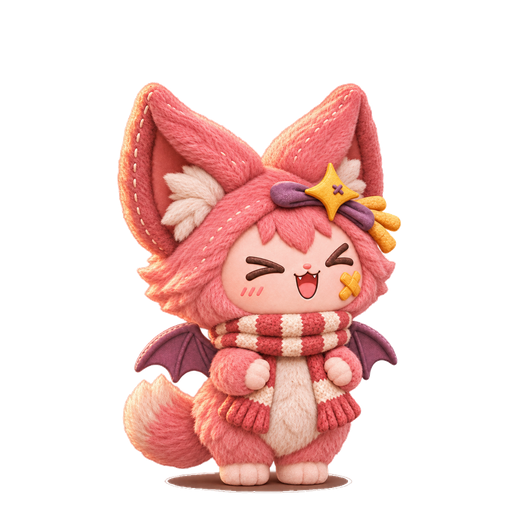
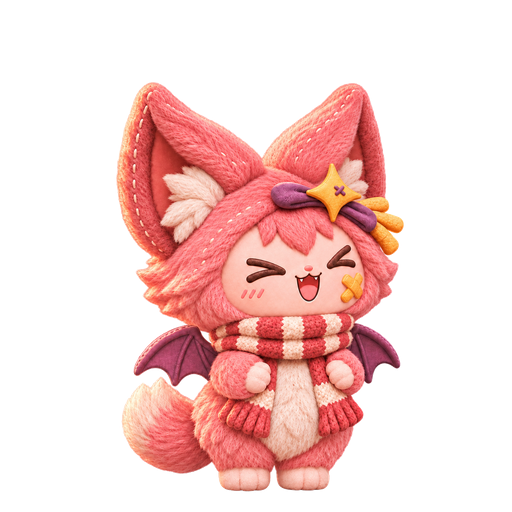
Mischi wing costume without ground shadow; importer --add mode; brief 10 review
Three redrawn wing poses (v2) replace the shadowed ones. The importer can now
add a few files without rebuilding everything, and refuses a partial folder
in full mode instead of clearing the game art.

Claude-Session: https://claude.ai/code/session_01HwhHRBigfxaa8eEGVZBLc8

Changed region(s): [[0.2188, 0.1562, 0.7812, 0.9688]]

diff --git a/tools/import_art.py b/tools/import_art.py
@@ -1,6 +1,10 @@
 """Import ChatGPT source art into the game.
 
-Usage:  python3 tools/import_art.py <folder-with-source-pngs> [--report report.md]
+Usage:  python3 tools/import_art.py <folder-with-source-pngs> [--report report.md] [--add]
+
+Without --add the folder must hold the WHOLE source set: the game folder is cleared and rebuilt
+from it, so a partial folder is refused. With --add only the files in the folder are imported and
+every other game image is left alone (use this for a few new or redrawn files).
 
 Source images are generated, so their pixel sizes, margins and framing vary. This script:
   1. Inventories the folder against the art brief (missing, unknown and superseded files).
@@ -81,7 +85,8 @@ REFERENCES = ["ui_arcade_hub", "ui_game_intro", "ui_game_frame", "ui_game_result
 COSTUMES = {"mopey": ["umbrella"], "mischi": ["wings"], "hush": ["wings"]}
 COSTUME_POSES = ["idle", "walk", "walk2", "sit", "sleep"]
 # Files delivered with a baked-in ground shadow; the importer strips it (flagged for redraw).
-SHADOW_FIX = {"char_mischi_costume_wings_idle", "char_mischi_costume_wings_walk", "char_mischi_costume_wings_sleep"}
+# Brief 08 delivered three Mischi wing poses with a ground shadow; their _v2 redraws (brief 10) are clean.
+SHADOW_FIX: set[str] = set()
 # Room backgrounds: normalized size (game copy is 80%). Proportions match the room grids.
 ROOMS = {"living": (2400, 1040), "sunroom": (2400, 1092), "yard": (2400, 886)}
 # Square scene cards for Explore (gathering spots and expedition routes).
@@ -242,6 +247,7 @@ def main() -> int:
         print(f"No PNG files found in {src}. Nothing changed.")
         return 2
     report_path = Path(args[args.index("--report") + 1]) if "--report" in args else None
+    add_mode = "--add" in args
 
     exclude_file = ROOT / "art" / "import-exclude.txt"
     excluded: dict[str, str] = {}
@@ -272,10 +278,20 @@ def main() -> int:
     missing = [k for k in EXPECTED if k not in best]
 
     lines = ["| Asset | Used file | Source size | Output |", "|---|---|---|---|"]
+    if not add_mode and len(best) < len(EXPECTED) * 0.8:
+        # Guard: a full import clears the game folder first, so a partial folder would delete most of the art.
+        print(f"Only {len(best)} of {len(EXPECTED)} expected assets are in {src}. Nothing changed.")
+        print("To import just these files and keep the rest, run again with --add.")
+        return 2
     anchors: dict[str, dict[str, float]] = {}
     GAME.mkdir(parents=True, exist_ok=True)
-    for old in [*GAME.glob("*.png"), *GAME.glob("*.webp")]:
-        old.unlink()
+    if add_mode:
+        anchors_file = GAME / "anchors.json"
+        if anchors_file.exists():
+            anchors = json.loads(anchors_file.read_text())
+    else:
+        for old in [*GAME.glob("*.png"), *GAME.glob("*.webp")]:
+            old.unlink()
 
     def record(key: str, source: Image.Image, out: Image.Image, note: str = "") -> None:
         lines.append(f"| {key} | {best[key][1].name} | {source.width}×{source.height} | {out.width}×{out.height}{' — ' + note if note else ''} |")
@@ -293,10 +309,8 @@ def main() -> int:
     # Characters: one scale per character, taken from the idle pose.
     for c in CHARACTERS:
         idle_key = f"char_{c}_idle"
-        if idle_key not in best:
+        if idle_key not in best and not add_mode:
             continue
-        idle = load(best[idle_key][1])
-        ix0, iy0, ix1, iy1 = bbox(body_mask(idle))
         stand_px = 1024 * STAND_FRACTION
         costume_pairs = [(f"costume_{k}_{p}", p) for k in COSTUMES.get(c, []) for p in COSTUME_POSES]
         for pose, scale_pose in [(p, p) for p in POSES] + costume_pairs:

diff --git a/docs/art-review-brief-10.md b/docs/art-review-brief-10.md
@@ -1,0 +1,31 @@
+# Art review — brief 10 (16 Nov 2026)
+
+## Part 2 — Mischi wing costume redraw: PASS (3 of 3)
+
+`char_mischi_costume_wings_idle_v2`, `_walk_v2`, `_sleep_v2` (1024×1024, white background).
+
+- No ground shadow in any of the three (checked with the white range stretched; the old idle and sleep showed a brown smear under the feet and body).
+- Same pose, scale and framing as the files they replace: after import the outlines match the old ones to within 3 px.
+- Four-point Mischief Star with the purple stitch, scarf, cheek bandage and plum bat wings all unchanged.
+- `walk` still pairs with the existing `walk2` (not redrawn) exactly as before.
+
+Imported with `tools/import_art.py <folder> --add`. The importer's shadow-removal step for these three files is now switched off, since the sources are clean.
+
+## Part 3 — Series 2 "Teatime Friends" concept board: 6 approved, 4 to revise
+
+`series_2_teatime_friends_concept_board.png` (1536×1024). Ten characters, right order, no text, style matches Series 1.
+
+| # | Character | Verdict | Note |
+|---|---|---|---|
+| 1 | Crumb (mouse baker) | Approve | Keeps the baker's cap; the only one with a chef-style hat after the changes below |
+| 2 | Mallow (hamster) | Revise | Orange-and-white colouring is close to a well-known cartoon hamster. Make it marshmallow cream all over with one toasted golden-brown patch |
+| 3 | Pekoe (otter) | Approve | Teapot-lid hat and leaf scarf read clearly |
+| 4 | Jammy (hedgehog) | Approve | |
+| 5 | Whisk (duckling) | Revise | Same tall white chef hat as Crumb. Remove the hat; a small tuft of head feathers instead. Keep whisk, bow and apron |
+| 6 | Dumple (panda cub) | Approve | |
+| 7 | Sprinkle (kitten) | Approve, with a rule | White kitten with a bow: the bow stays on the chest, never on an ear, and the open mouth stays, so it cannot be mistaken for a famous white cat |
+| 8 | Toffee (raccoon) | Approve, with a rule | Keeps the flat cap and cookie; never an apron |
+| 9 | Soufflé (swan) | Revise | Third chef hat on the board. Remove it; keep the neckerchief and ribbon |
+| 10 | Cherri (sprite) | Revise | Drawn as a little fairy girl with hair, elf ears and wings: the only human-like figure in the cast, doll-like, and not glowing. Redraw as a small round cherry-shaped plush creature with a leaf stem and a soft glow |
+
+Pose briefs (13 files per character) wait until the four revisions are approved.

diff --git a/docs/art-brief-10-costumes-series-2.md b/docs/art-brief-10-costumes-series-2.md
@@ -1,6 +1,6 @@
 # 10 ART BRIEF — new costumes, Mischi wing fix, Series 2 concept board
 
-**Status: PROPOSAL, 16 Nov 2026. Not yet approved by Marcus.** Names, looks and prices below are Claude's suggestions to react to. Nothing here is in the game yet.
+**Status, 16 Nov 2026:** given to ChatGPT by Marcus. Series 2 theme (Teatime Friends) chosen by Claude at Marcus's request. Part 2 delivered and passed; Part 3 board delivered, four characters to revise (see `art-review-brief-10.md`); Part 1 costumes not yet delivered. Costume prices are proposed values.
 
 All rules from **04, 07 and 08 ART BRIEF** still apply: soft felt-and-stitch storybook plush style, plain white background, one subject per file, same canvas, framing and scale as that character's existing files, no text, no logos, no watermarks, no ground shadows.
 
